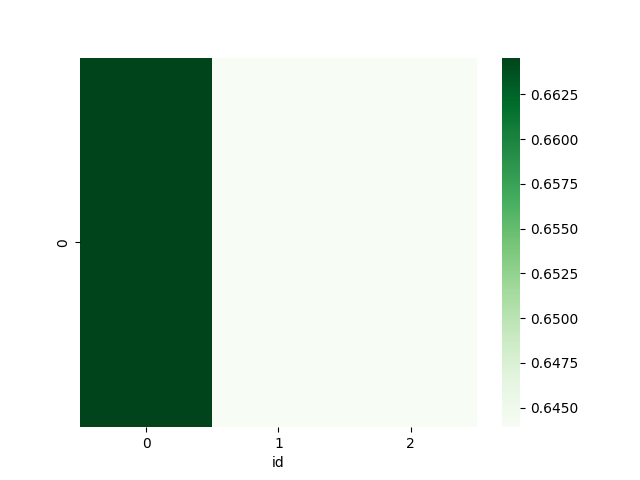
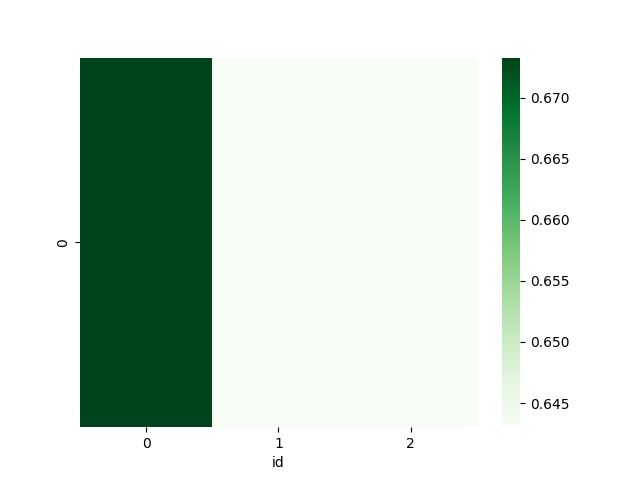
added similarity matrix repo

diff --git a/CV_Matcher/scripts/repo/sim_matrix_repo.py b/CV_Matcher/scripts/repo/sim_matrix_repo.py
@@ -1,0 +1,92 @@
+import psycopg2
+import pandas as pd
+from psycopg2 import sql
+from psycopg2.extensions import connection
+
+
+def insert_new_row(conn: connection, new_a_id: int, similarities_df: pd.DataFrame):
+    """
+    Inserts a new row into the sim_matrix table using a DataFrame.
+
+    :param conn: PostgreSQL database connection object
+    :param new_a_id: ID of the new A element
+    :param similarities_df: DataFrame with single row containing similarity scores to each B element
+    """
+    with conn.cursor() as cursor:
+        # Get B column names (excluding a_id)
+        cursor.execute("""
+            SELECT column_name 
+            FROM information_schema.columns 
+            WHERE table_name = 'sim_matrix' 
+            AND column_name != 'id'
+            ORDER BY ordinal_position;
+        """)
+        b_columns = [row[0] for row in cursor.fetchall()]
+
+        # Validate DataFrame structure
+        if len(similarities_df) != 1:
+            raise ValueError("DataFrame must contain exactly one row")
+
+        if list(similarities_df.columns) != b_columns:
+            raise ValueError(f"DataFrame columns must match B columns in order: {b_columns}")
+
+        # Prepare values
+        values = [new_a_id] + similarities_df.iloc[0].tolist()
+        columns_str = ', '.join(['id'] + b_columns)
+        placeholders = ', '.join(['%s'] * (len(b_columns) + 1))
+
+        # Create and execute INSERT query
+        insert_query = f"""
+            INSERT INTO sim_matrix ({columns_str})
+            VALUES ({placeholders})
+        """
+        cursor.execute(insert_query, values)
+    conn.commit()
+
+
+def insert_new_column(conn: connection, new_b_id: str, similarities_df: pd.DataFrame):
+    """
+    Inserts a new column into the sim_matrix table using a DataFrame.
+
+    :param conn: PostgreSQL database connection object
+    :param new_b_id: Name/ID of the new B element (column name)
+    :param similarities_df: DataFrame with single row containing similarity scores to each A element
+    """
+    with conn.cursor() as cursor:
+        # Basic column name validation
+        if not new_b_id.isidentifier():
+            raise ValueError("Invalid column name")
+
+        # Get existing A element IDs in order
+        cursor.execute("SELECT a_id FROM sim_matrix ORDER BY a_id;")
+        a_ids = [row[0] for row in cursor.fetchall()]
+
+        # Validate DataFrame structure
+        if len(similarities_df) != 1:
+            raise ValueError("DataFrame must contain exactly one row")
+
+        if len(similarities_df.columns) != len(a_ids):
+            raise ValueError(f"Need {len(a_ids)} similarity scores, got {len(similarities_df.columns)}")
+
+        # Add new column
+        cursor.execute(
+            sql.SQL("ALTER TABLE sim_matrix ADD COLUMN {} REAL").format(
+                sql.Identifier(new_b_id)
+            )
+        )
+
+        # Prepare UPDATE statements
+        similarities = similarities_df.iloc[0].tolist()
+        update_template = """
+            UPDATE sim_matrix 
+            SET {} = %s 
+            WHERE a_id = %s;
+        """
+
+        # Update each row with corresponding similarity score
+        for a_id, similarity in zip(a_ids, similarities):
+            cursor.execute(
+                sql.SQL(update_template).format(sql.Identifier(new_b_id)),
+                (similarity, a_id)
+            )
+    conn.commit()

diff --git a/CV_Matcher/scripts/service/cv_service.py b/CV_Matcher/scripts/service/cv_service.py
@@ -2,8 +2,10 @@
 import seaborn as sns
 import matplotlib.pyplot as plt
 
+from scripts.repo.abstract_file_repo import get_connection
 from scripts.repo.cv_repo import save_cv_embeddings
 from scripts.repo.job_repo import get_jobs_df
+from scripts.repo.sim_matrix_repo import insert_new_row
 from scripts.util.cv_util import process_cv
 
 def add_cvs(cvs): # actual texts form docx/pdf files
@@ -14,11 +16,11 @@ def add_cvs(cvs): # actual texts form docx/pdf files
         cv_embedding, sim_measures = process_cv(cv, job_vector_embeddings)
         mini = sim_measures.min().min()
         maxi = sim_measures.max().max()
-        sns.heatmap(sim_measures, vmion=mini, vmax=maxi, cmap='Greens')
+        sns.heatmap(sim_measures, vmin=mini, vmax=maxi, cmap='Greens')
         plt.savefig(f"simpler_similarity_heatmap_{id}.png")
         plt.close()
         # save cv_vector_embedding in db
         save_cv_embeddings(cv_embedding)
         id += 1
         # insert new sim_measure 'row'
-
+        insert_new_row(get_connection(), id, sim_measures)

diff --git a/CV_Matcher/scripts/tests.py b/CV_Matcher/scripts/tests.py
@@ -42,7 +42,7 @@ def test_save_jobs():
     _, job_texts = read_folder('../DataSet/job')
     add_jobs(job_texts)
 def test_save_cvs():
-    _, cv_texts = read_folder('../DataSet/cv', 2)
+    _, cv_texts = read_folder('../DataSet/cv', 3)
     add_cvs(cv_texts)
 
 test_save_cvs()
